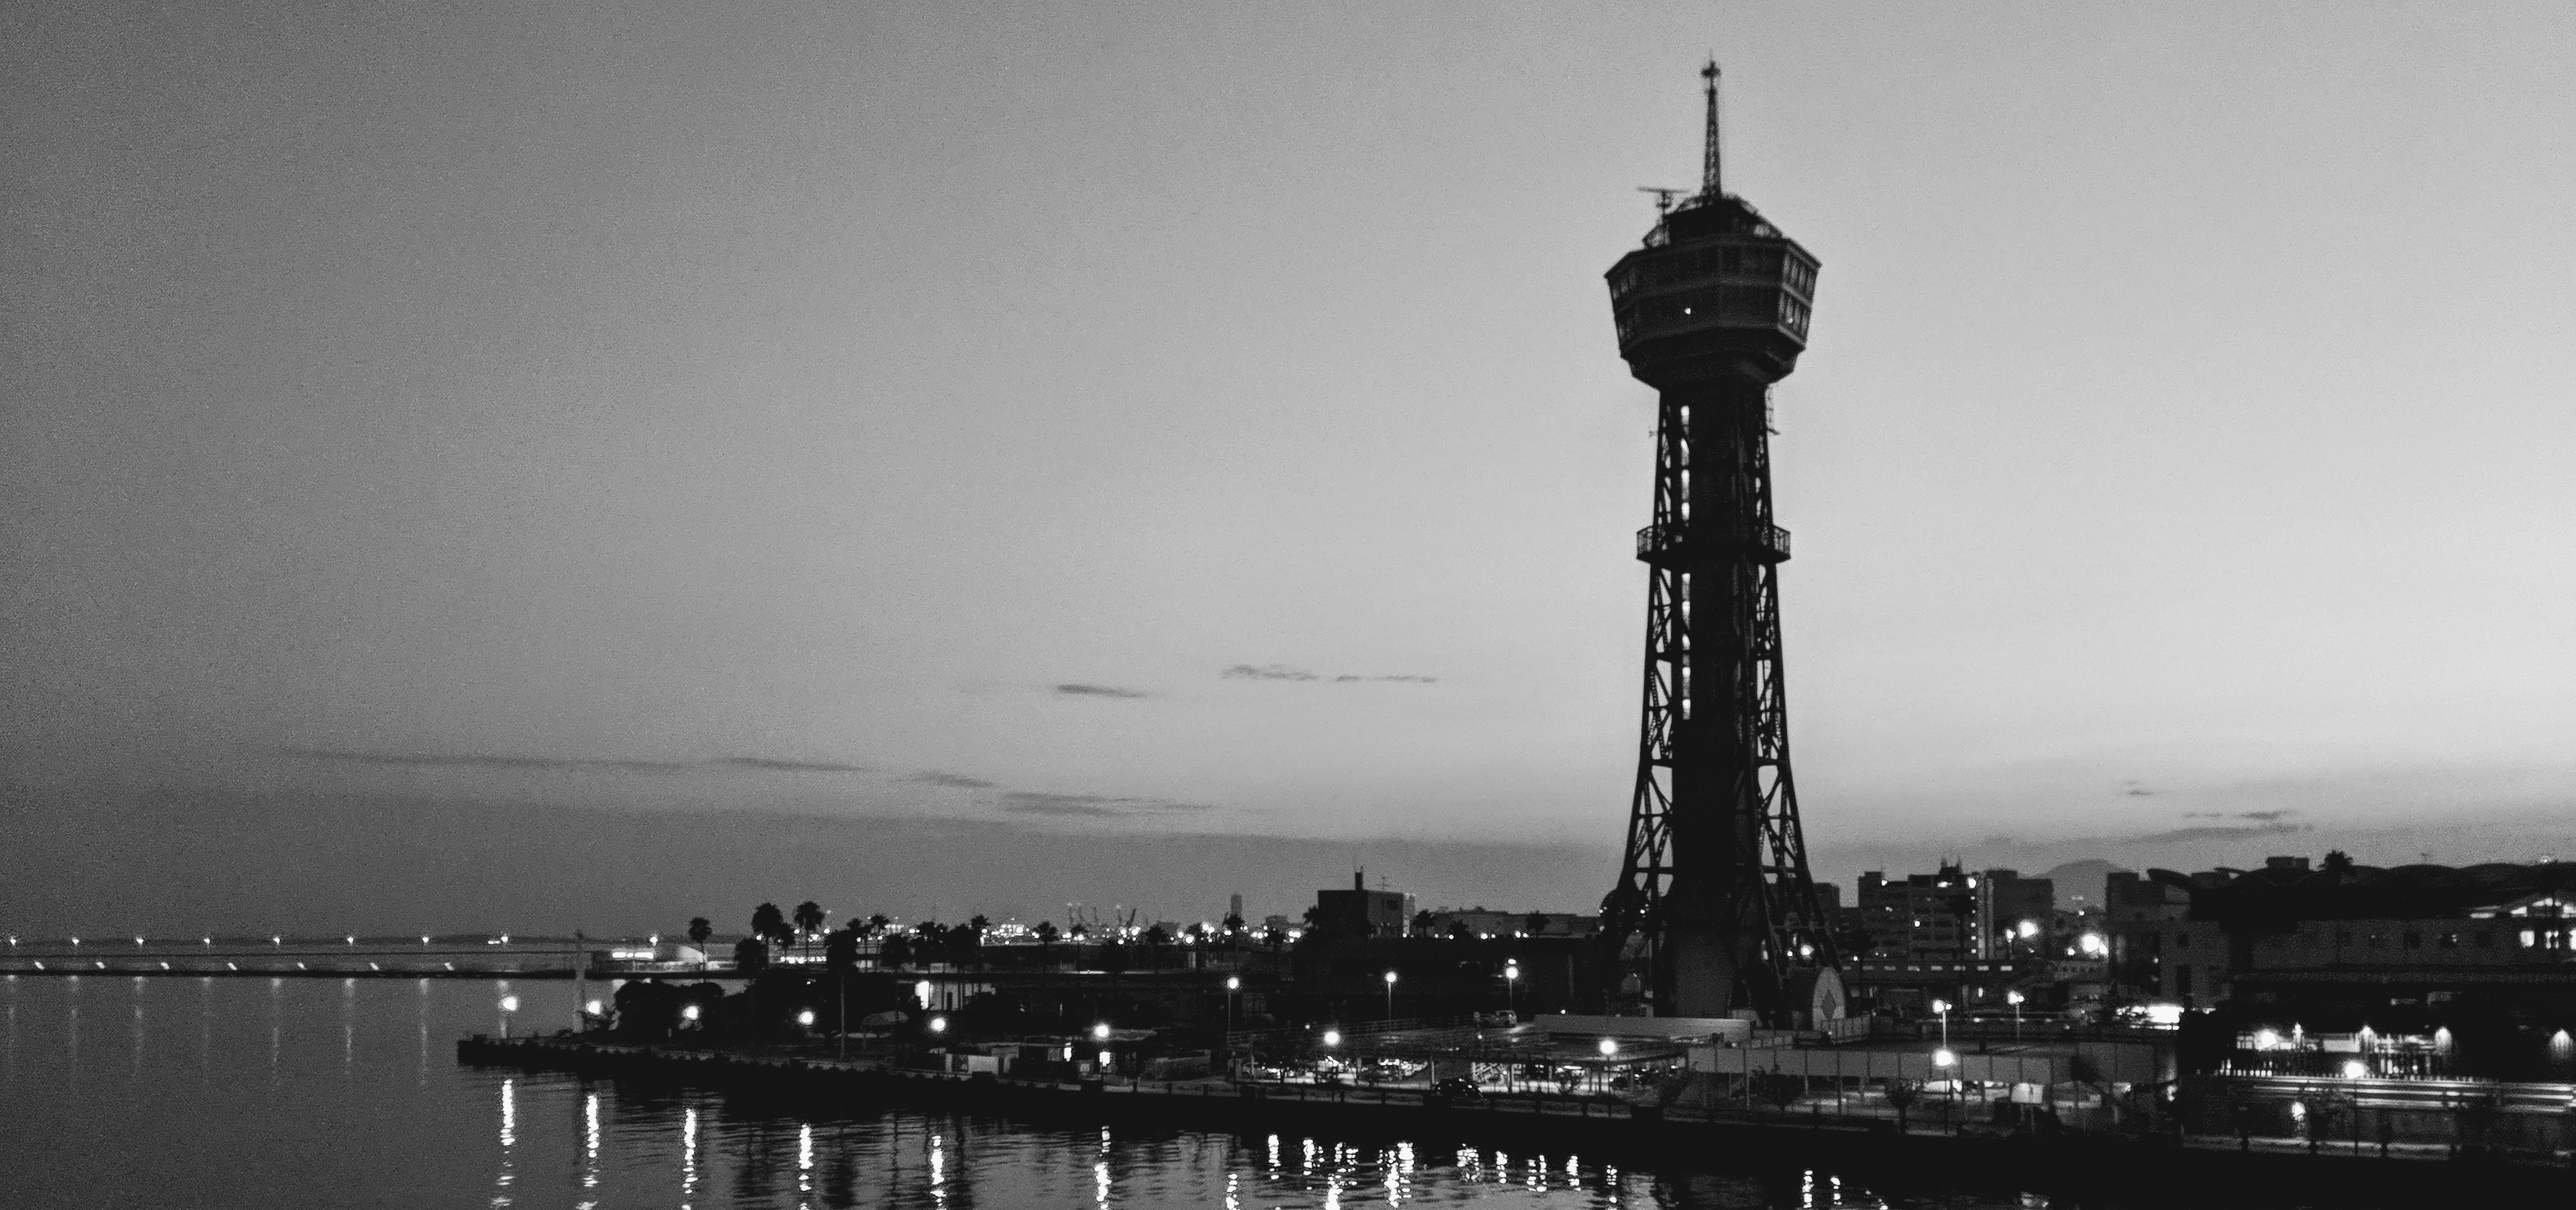
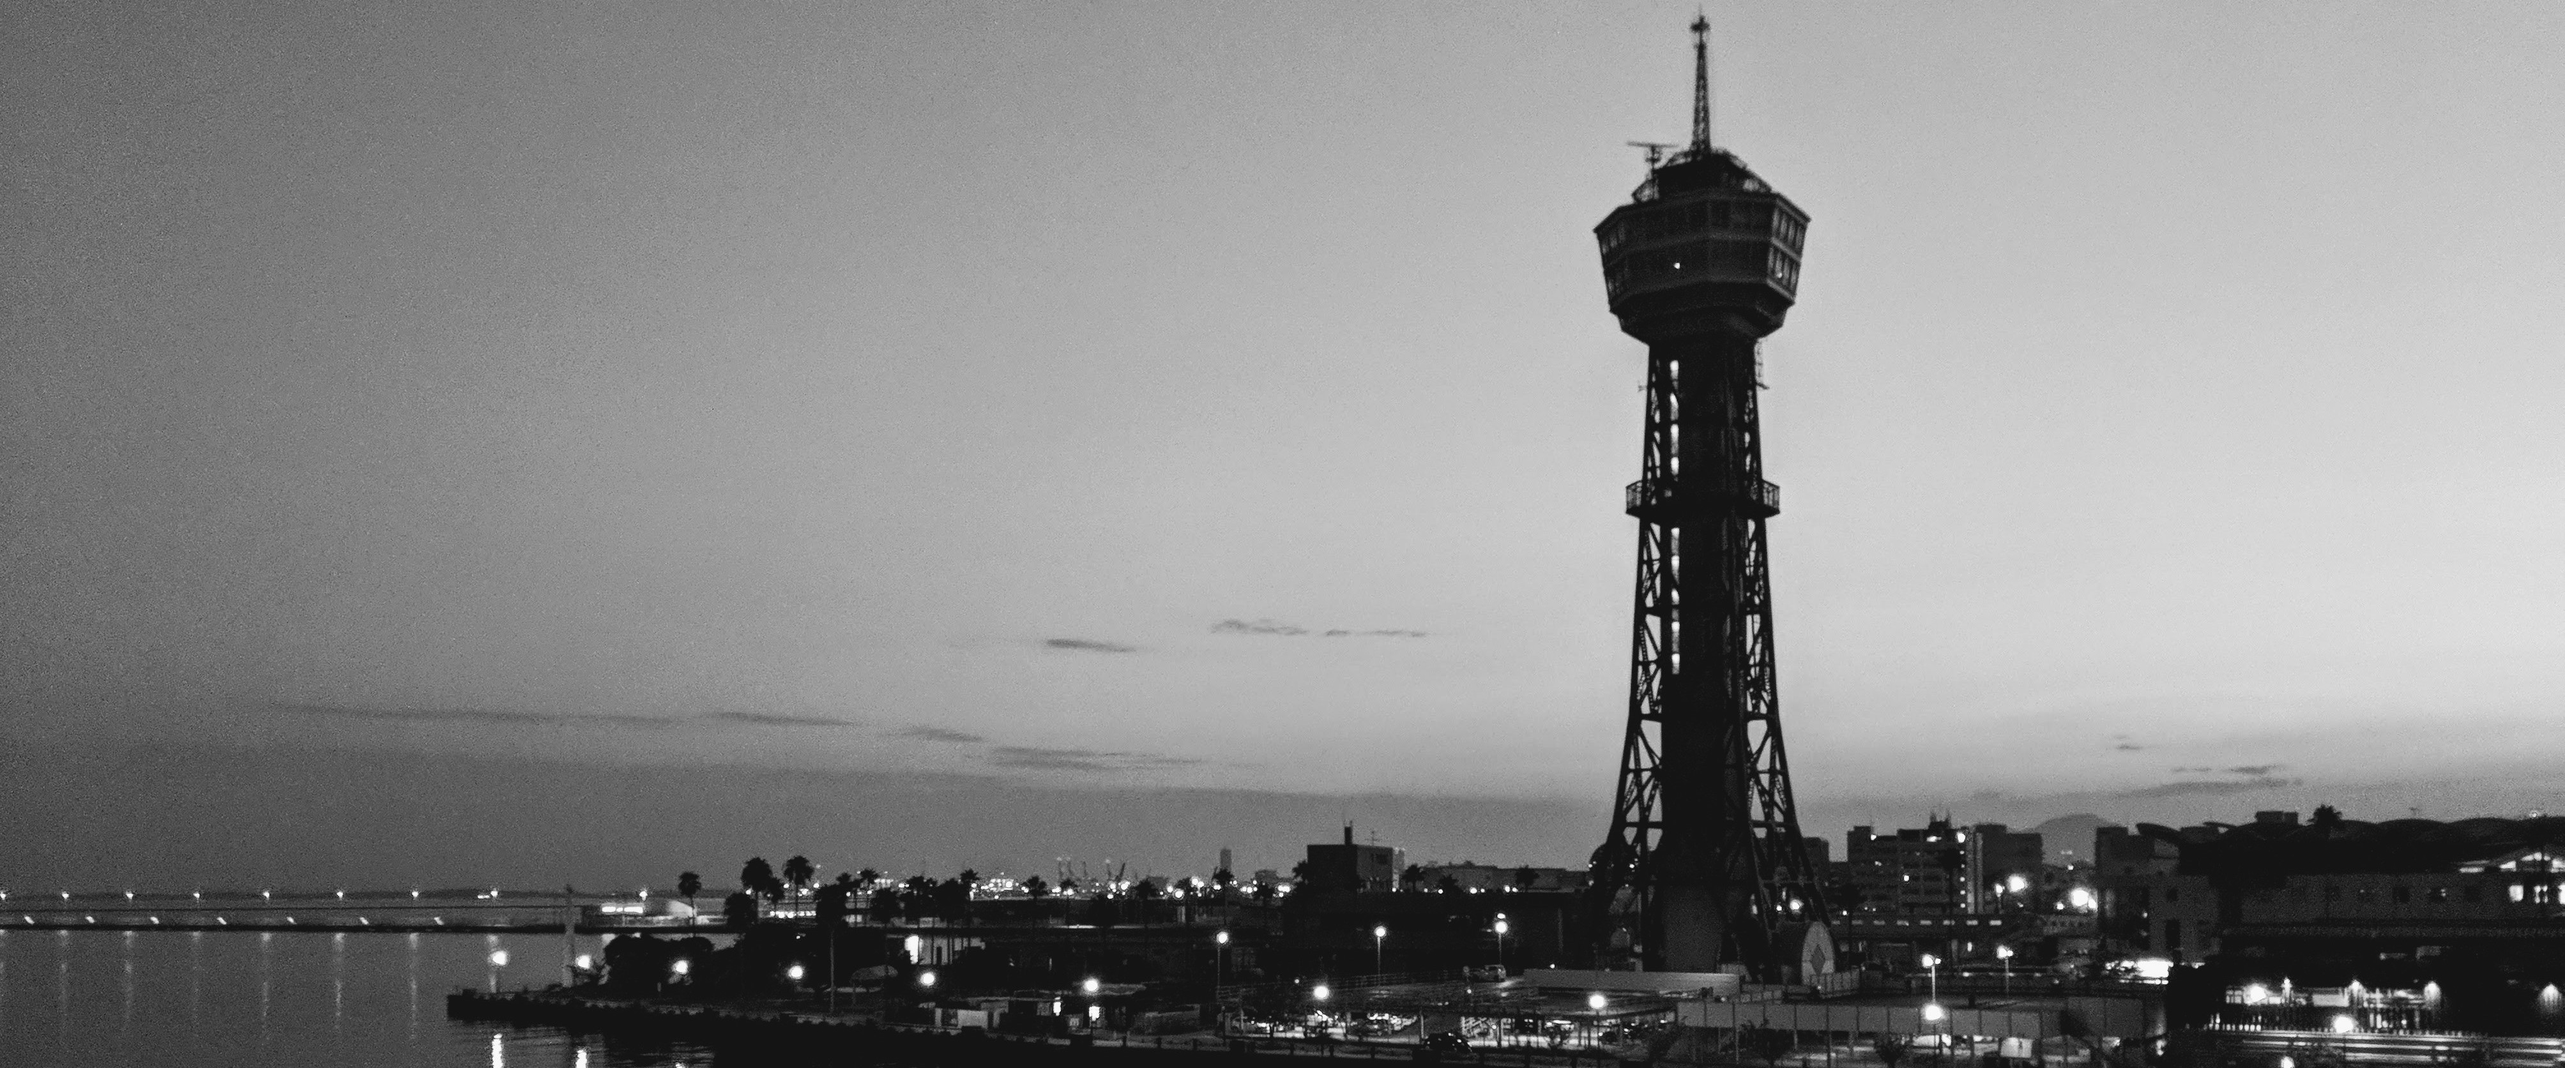
Add footer and Modify image

diff --git a/src/App.vue b/src/App.vue
@@ -1,7 +1,7 @@
 <template>
-  <div id="app" class="font">
-    <div class="row">
-      <nav class="col-2 bg-light sidebar">
+  <div id="app" class="font row m-0">
+    <div class="col-2 bg-light sidebar">
+      <nav>
         <div class="sidebar-sticky">
           <img src="image.jpg" class="rounded-circle img-thumbnail">
           <div class="pt-5">
@@ -11,9 +11,12 @@
           </div>
         </div>
       </nav>
-      <main class="col p-0" role="main">
+    </div>
+    <div class="col-10 px-0">
+      <main role="main">
         <div class="header"><Header /></div>
         <div class="content"><About /></div>
+        <div class="footer"><Footer /></div>
       </main>
     </div>
   </div>
@@ -22,12 +25,14 @@
 <script>
 import About from './components/About.vue'
 import Header from './components/Header.vue'
+import Footer from './components/Footer.vue'
 
 export default {
   name: 'app',
   components: {
     About,
-    Header
+    Header,
+    Footer
   }
 }
 </script>
@@ -36,6 +41,7 @@ export default {
   .font {
     font-family: "Times New Roman", Times, serif;
   }
+
   .sidebar {
     position: fixed;
     top: 0;
@@ -43,9 +49,7 @@ export default {
     left: 0;
     z-index: 100;
     padding: 48px;
-    box-shadow: inset -1px 0 0
-
-    rgba(0, 0, 0, .1);
+    box-shadow: inset -1px 0 0 rgba(0, 0, 0, .1);
   }
 
   .sidebar-sticky {
@@ -57,7 +61,7 @@ export default {
     overflow-y: auto;
   }
 
-  .toc{
+  .toc {
 
   }
 
@@ -66,5 +70,14 @@ export default {
 
   .content{
     padding: 24px;
+  }
+
+  .footer {
+      position: absolute;
+      bottom: 0;
+      width: 100%;
+      height: 60px;
+      background-color: #f5f5f5;
+      box-shadow: inset 0 1px 0 rgba(0, 0, 0, .1);
   }
 </style>

diff --git a/src/components/Footer.vue b/src/components/Footer.vue
@@ -1,0 +1,19 @@
+<template>
+  <div>
+    <footer class="footer bg-light text-center mx-auto">
+      <span class="px-md-2"><a href="https://github.com/ymatzki">GitHub</a></span>
+      <span class="px-md-2"><a href="https://twitter.com/ymatzki">Twitter</a></span>
+      <br />
+      <span class="px-md-2">© 2019 Yusaku Matsuki</span>
+    </footer>
+  </div>
+</template>
+
+<script>
+export default {
+  name: 'Footer'
+}
+</script>
+
+<style>
+</style>

diff --git a/public/index.html b/public/index.html
@@ -4,7 +4,7 @@
     <meta charset="utf-8">
     <meta http-equiv="X-UA-Compatible" content="IE=edge">
     <meta name="viewport" content="width=device-width,initial-scale=1.0">
-    <title>ymatzki info</title>
+    <title>Yusaku Matsuki</title>
   </head>
   <body>
     <noscript>

diff --git a/src/components/Header.vue b/src/components/Header.vue
@@ -1,6 +1,6 @@
 <template>
   <div>
-    <img class="img-fluid" src="header.jpg">
+    <img class="img-fluid" src="coast.jpg">
   </div>
 </template>
 
